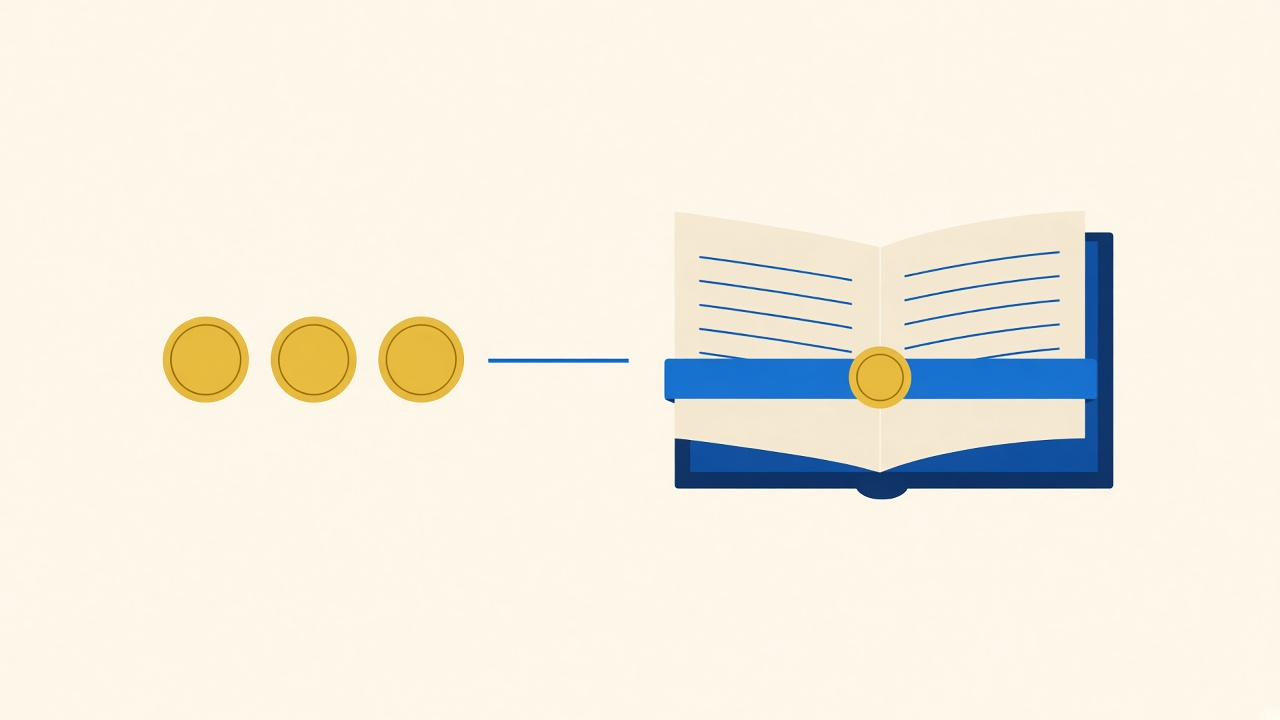
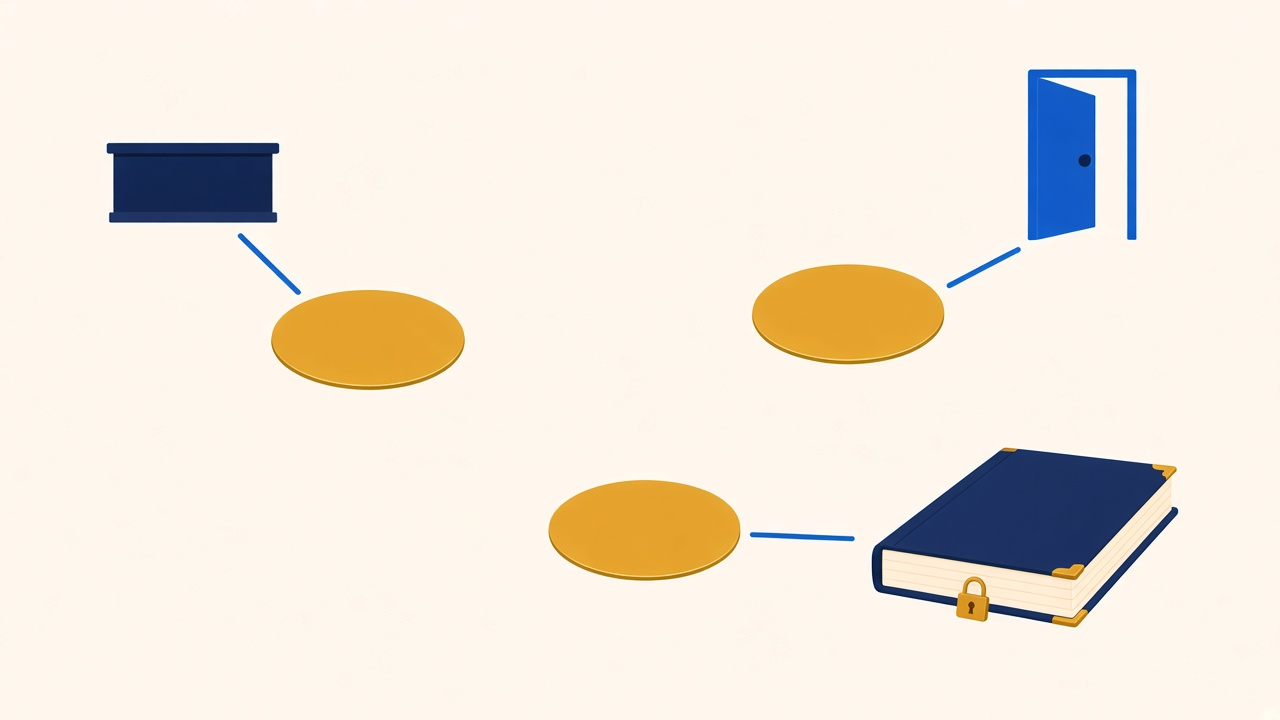
Send the settlement money to three places, and close the treasury book.

Changed region(s): [[0.0625, 0.0917, 0.9375, 0.8861]]

diff --git a/company-os/governance/decision-log.md b/company-os/governance/decision-log.md
@@ -4,6 +4,7 @@ One line per decision that changes direction. Newest on top.
 
 | Date | Decision | Options considered | Chosen | Why | Owner | Revisit |
 |---|---|---|---|---|---|---|
+| 26 Sep 2026 | The settlement plate shows the money going to three different places. The book is a closed treasury ledger, with a lock. It is not an open notebook. | Keep the three discs in one line into an open ruled book | Three paths, closed ledger | He said the book is treasury, and that the drawing was a real notebook | André Silva | When the settlement plate is redrawn |
 | 26 Sep 2026 | The public Product page opens on the title and the four-column catalogue, not on a place photograph. The three process chapters put the numbered steps on the left and the plate on the right. The plates are redrawn: rails without coins or temple icons; enable as stock to browser with card capture on the page; settle as plain gold discs and a strapped book, without poker chips or corner ornaments. Other reading pages keep the place photograph. | Keep the city carousel on Product; keep the old plates | Lead layout and new plates | He asked for a heavy UX pass aligned to a studied platform page, with gov.br restraint and online-store clarity in the enable plate | André Silva | When the product page needs a fourth chapter |
 | 25 Sep 2026 | Ecosystem leaves the offer. It does not name the product, the signup or the direct connection. It means the sum of every country in Latin America and Central America. That use is not barred. The texture list no longer contains the word. The home title stays "Enter Latin America like a local." The line under it is gone. | Keep the word as the name of the offer; keep it on the texture list | The geographic meaning, and nowhere else on the home | He said that context was wrong, and that he had not meant the word to sound like a machine | André Silva | When a page needs to name the whole set of countries |
 | 25 Sep 2026 | The second point is local signup, not local approval. We gather the client's data, deliver it to the local partners, and help with the licences, the regulations and the requirements of regulated institutions, so the approval has a better chance. The third point is direct connection. The client does not meet each requirement alone. It uses the volume of our local commercial policy and enters the competitive market. The same claims in Portuguese. Recorded in the kit, the glossary and the public pages. | Keep "the local acquirer gives the approval" and "local rules" | Local signup, then direct connection | He named both points and said to write them through | André Silva | When local merchants have their own page |
